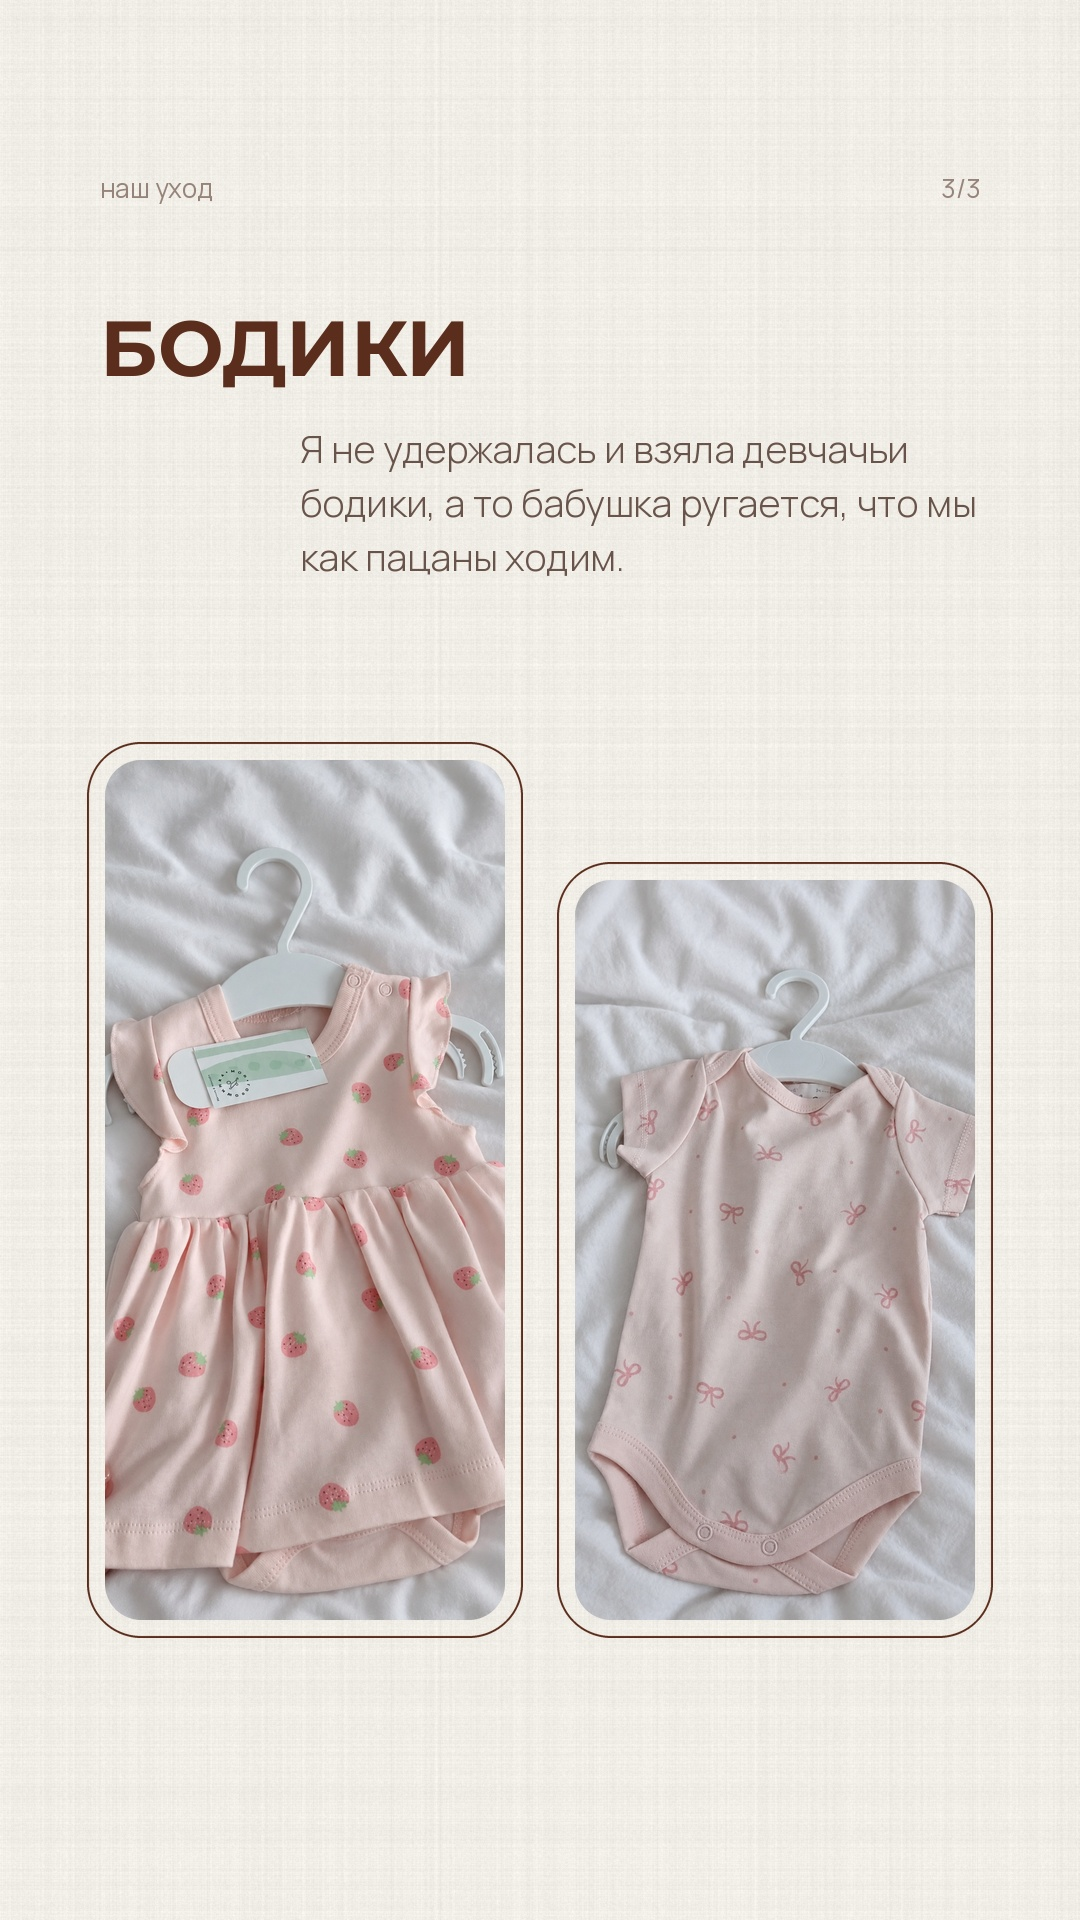
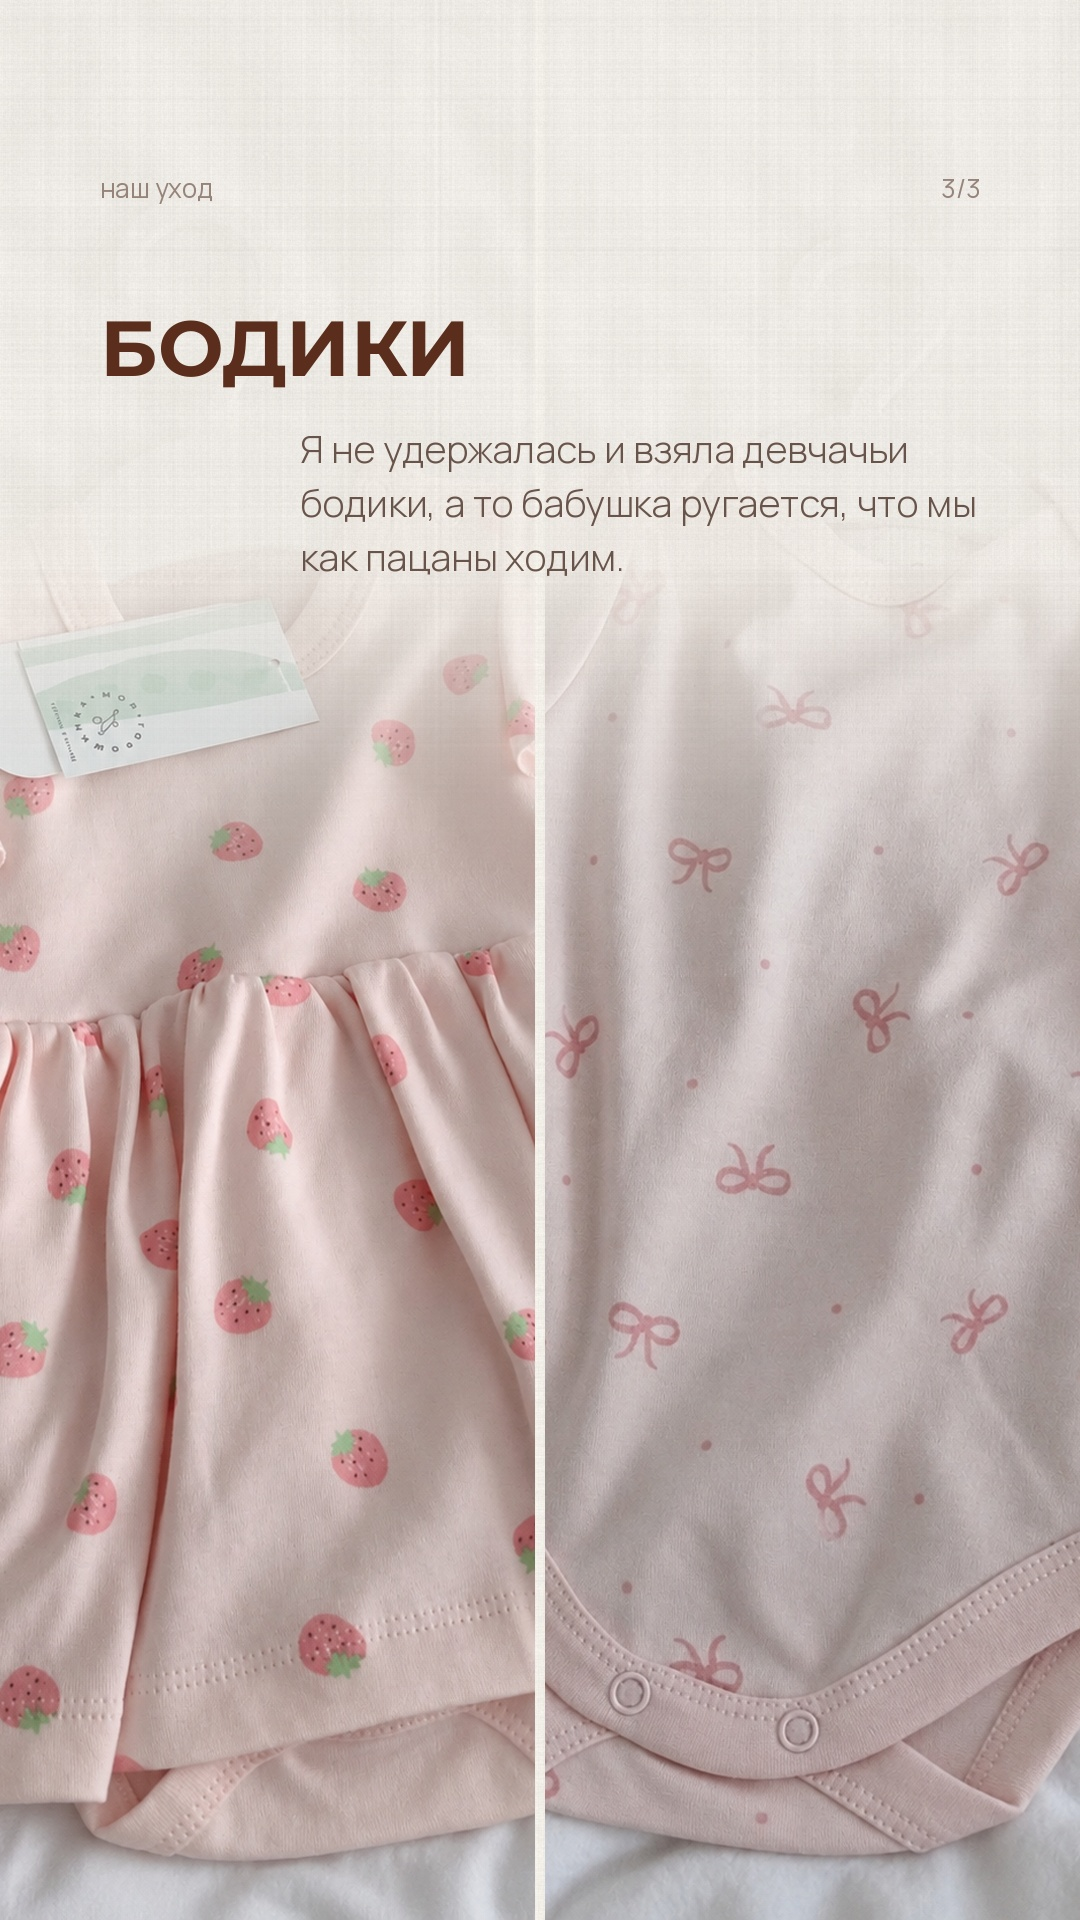
Bodysuit story: full-bleed two-photo collage with text over paper fade
Claude-Session: https://claude.ai/code/session_01RmuGDShBWvqdqqGxFycib9

diff --git a/tools/stories_editorial.py b/tools/stories_editorial.py
@@ -42,12 +42,14 @@ SLIDES = [
         "text": "Я не удержалась и взяла девчачьи бодики, а\u00a0то бабушка ругается, "
                 "что мы как пацаны ходим.",
         "focus": (0.5, 0.45),
+        "layout": "collage",
     },
 ]
 HEADER_LABEL = "наш уход"
 
 # Photo frame: arch | rounded | oval | passe (override with: python3 ... <frame>)
 FRAME = "rounded"
+FADE_START, FADE_END = 560, 1000  # collage: solid paper under text, then fade out
 BOTTOM = 1620  # lower edge of floating frames, clear of the Instagram reply bar
 
 
@@ -147,8 +149,23 @@ def place_photo(img, path, x, y, w, focus, frame):
     outline(img, (x, y, x + w, y + h), frame)
 
 
+def collage(img, paths, focus, seam=10):
+    """Full-bleed vertical split of the photos, text area faded into paper on top."""
+    cw = (W - seam * (len(paths) - 1)) // len(paths)
+    for k, src in enumerate(paths):
+        img.paste(cover_crop(src, cw, H, focus), (k * (cw + seam), 0))
+    fade = np.zeros((H, 1), np.float32)
+    ramp = np.linspace(0, 1, FADE_END - FADE_START)
+    fade[:FADE_START] = 0.93
+    fade[FADE_START:FADE_END, 0] = 0.93 * (1 - ramp) ** 1.6
+    alpha = Image.fromarray((np.repeat(fade, W, 1) * 255).astype(np.uint8))
+    img.paste(linen(), (0, 0), alpha)
+
+
 def render(i, slide):
     img = linen()
+    if slide.get("layout") == "collage":
+        collage(img, slide["photos"], slide["focus"])
     d = ImageDraw.Draw(img)
     margin = 100
 
@@ -175,7 +192,9 @@ def render(i, slide):
 
     # Photo block under the text
     top = max(y + 70, 760)
-    if "photos" in slide:
+    if slide.get("layout") == "collage":
+        pass  # photos are already the background
+    elif "photos" in slide:
         # Two narrow frames side by side, the second one stepped down
         aw, gap, step = 400, 70, 120
         x = (W - 2 * aw - gap) // 2
